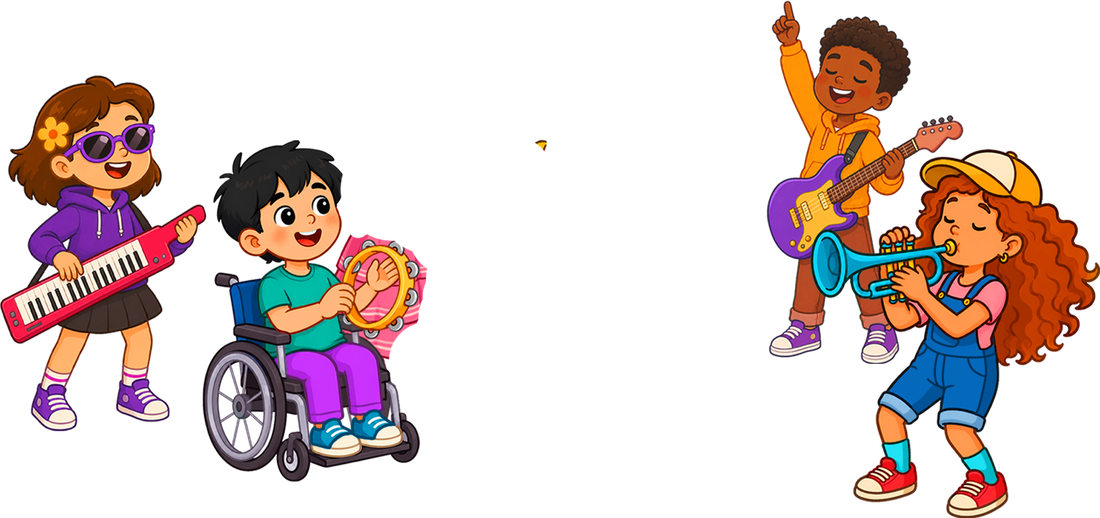
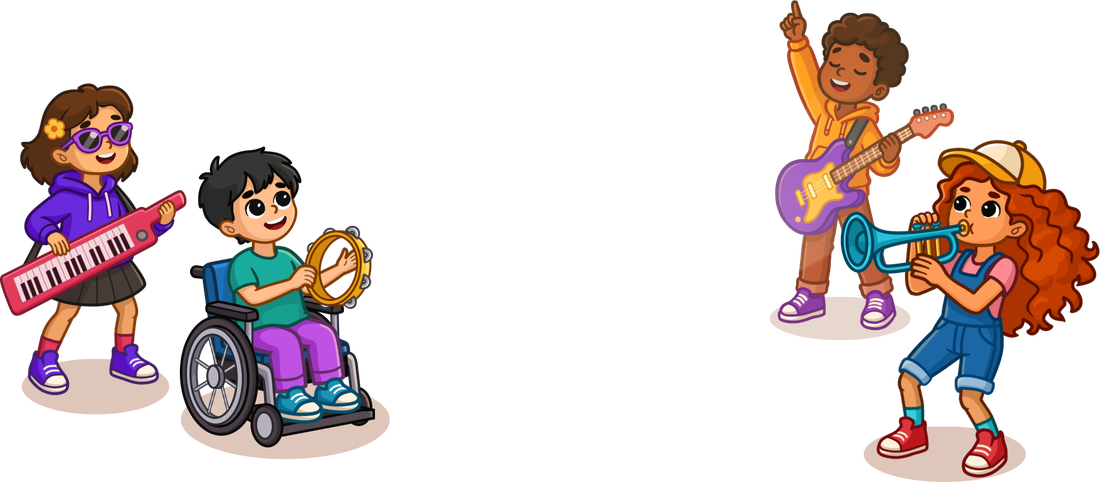
Update stage art and road borders while preserving animated gameplay

diff --git a/src/psd-ui.js b/src/psd-ui.js
@@ -1,4 +1,4 @@
-import {localizedLogo, supportedLanguages} from './logos.js?v=b9b96e2c52c7';
+import {localizedLogo, supportedLanguages} from './logos.js?v=4c0b585e0128';
 // Coordinates refer to the visible PSD artboard, excluding its black export frame.
 // PSD: 2928×4884; visible artwork: x=351..2574, y=42..4842.
 export const art = 'public/assets/psd/';
@@ -6,7 +6,7 @@ export const esc = value => String(value).replace(/[&<>"']/g,c=>({'&':'&amp;','<
 export function box(x,y,w,h) {return `left:${(x-351)/2223*100}%;top:${(y-42)/4800*100}%;width:${w/2223*100}%;height:${h/4800*100}%;`;}
 export function picture(name,x,y,w,h,extra='') {
  if(['menu-star','win-star','game-star'].includes(name))return `<div class="art glow-star" data-art="${name}" style="${box(x,y,w,h)}" aria-hidden="true"><i></i></div>`;
- return `<img class="art ${extra}" data-art="${name}" src="${art}${name}.webp" style="${box(x,y,w,h)}" alt="" draggable="false">`;}
+ return `<img class="art ${extra}" data-art="${name}" src="${art}${name}.webp${['cast','singer','game-dino'].includes(name)?'?v=cast-20261027':''}" style="${box(x,y,w,h)}" alt="" draggable="false">`;}
 export const star = '<span class="score-star" aria-hidden="true"></span>';
 export function days({day,selected,scores,t,final=false}) {
  return `<div class="days ${final?'final-days':''}" style="--unlocked:${Math.max(0,day-1)/6*100}%">${Array.from({length:7},(_,i)=>{
@@ -57,8 +57,8 @@ export function endUI({t,s,scores,diplomaBusy=false,diplomaError=''}){
  </div>`;
 }
 export function gameUI({t,track,score}) {
- return `<div class="screen game-screen"><div class="lanes" aria-label="${t('musicTrack')}">${[0,1].map(l=>`<button class="lane lane-${l}" data-lane="${l}" aria-label="${t(l?'lane2':'lane1')}"><div class="road"><div class="road-shine"></div><div class="road-stream" aria-hidden="true"><i></i><i></i></div></div><div class="notes"></div><span class="target"><span class="target-beam" aria-hidden="true"></span><span class="target-halo" aria-hidden="true"></span></span></button>`).join('')}</div>
- ${picture('sky-stars',356,114,2180,891)}${picture('game-star',1076,662,788,760)}${picture('stage',-265,715,3460,1469,'stage')}${picture('cast',485,740,1953,920)}${picture('singer',1242,711,488,934)}${picture('game-dino',1572,1056,443,582)}
+ return `<div class="screen game-screen"><div class="lanes border-lanes" aria-label="${t('musicTrack')}"><div class="road-border-art" aria-hidden="true"></div>${[0,1].map(l=>`<button class="lane lane-${l}" data-lane="${l}" aria-label="${t(l?'lane2':'lane1')}"><div class="road"><div class="road-shine"></div><div class="road-stream" aria-hidden="true"><i></i><i></i></div></div><div class="notes"></div><span class="target"><span class="target-beam" aria-hidden="true"></span><span class="target-halo" aria-hidden="true"></span></span></button>`).join('')}</div>
+ ${picture('sky-stars',356,114,2180,891)}${picture('game-star',1076,662,788,760)}${picture('stage',-265,715,3460,1469,'stage')}${picture('cast',369,725,2165,948)}${picture('singer',1111,698,487,953)}${picture('game-dino',1468,951,422,677)}
  <div class="track-hud panel" style="${box(472,375,1154,306)}"><span class="note-icon">♫</span><div><small>${t('track')}</small><b>${esc(track.title)}</b><progress id="progress" max="1" value="0"></progress></div></div>
  <div class="total panel" style="${box(1666,376,478,306)}"><small>${t('score')}</small><b>${star}<span id="score">${score}</span></b></div>
  <button class="circle-button pause-button" id="pause" aria-label="${t('paused')}" style="${box(2181,390,276,276)}"><span></span></button>

diff --git a/src/app.js b/src/app.js
@@ -1,18 +1,18 @@
-import {createStoryHistory,storiesKey,storyCalendar} from './stories-state.js?v=b9b96e2c52c7';
-import {mountStories} from './stories-player.js?v=e9652989c591';
-import {storyContent} from './stories-content.js?v=b9b96e2c52c7';
-import {integrationConfig} from './integration-config.js?v=b9b96e2c52c7';
-import {isAppLaunch,loadLaunchContext,launchEvent,progressKey} from './launch-context.js?v=b9b96e2c52c7';
-import {createEventApi,createProgressSync} from './event-api.js?v=5f744c4a6941';
-import {lockedDayMessage} from './locked-day.js?v=b9b96e2c52c7';
-import {loadTrack,unlockAudio,beep,celebrate,stopEffects,prepareApplause} from './game-audio.js?v=b9b96e2c52c7';
-import {runtime} from './runtime-config.js?v=b9b96e2c52c7';
-import {loadEvent} from './event-source.js?v=b9b96e2c52c7';
-import {eventState, award, saveScore, timingPoints} from './event.js?v=b9b96e2c52c7';
-import {I18N} from './reference-i18n.js?v=b9b96e2c52c7';
-import {copy} from './copy.js?v=5f744c4a6941';
-import {decorateScreen,hitMotion,flyHitNote,victoryConfetti} from './motion.js?v=b9b96e2c52c7';
-import {menuUI,resultUI,endUI,gameUI} from './psd-ui.js?v=5f744c4a6941';
+import {createStoryHistory,storiesKey,storyCalendar} from './stories-state.js?v=4c0b585e0128';
+import {mountStories} from './stories-player.js?v=4c0b585e0128';
+import {storyContent} from './stories-content.js?v=4c0b585e0128';
+import {integrationConfig} from './integration-config.js?v=4c0b585e0128';
+import {isAppLaunch,loadLaunchContext,launchEvent,progressKey} from './launch-context.js?v=4c0b585e0128';
+import {createEventApi,createProgressSync} from './event-api.js?v=4c0b585e0128';
+import {lockedDayMessage} from './locked-day.js?v=4c0b585e0128';
+import {loadTrack,unlockAudio,beep,celebrate,stopEffects,prepareApplause} from './game-audio.js?v=4c0b585e0128';
+import {runtime} from './runtime-config.js?v=4c0b585e0128';
+import {loadEvent} from './event-source.js?v=4c0b585e0128';
+import {eventState, award, saveScore, timingPoints} from './event.js?v=4c0b585e0128';
+import {I18N} from './reference-i18n.js?v=4c0b585e0128';
+import {copy} from './copy.js?v=4c0b585e0128';
+import {decorateScreen,hitMotion,flyHitNote,victoryConfetti} from './motion.js?v=4c0b585e0128';
+import {menuUI,resultUI,endUI,gameUI} from './psd-ui.js?v=4c0b585e0128';
 const $ = s=>document.querySelector(s), app=$('#app');
 const params=new URLSearchParams(location.search), assets='public/assets/';
 const startType=['banner','game'].includes(params.get('start_type'))?params.get('start_type'):null;

diff --git a/index.html b/index.html
@@ -1,1 +1,1 @@
-<!doctype html><html lang="ru"><head><meta charset="UTF-8"><meta name="viewport" content="width=device-width,initial-scale=1,viewport-fit=cover,user-scalable=no"><meta name="referrer" content="no-referrer"><meta name="theme-color" content="#6c19d6"><title>321playsy · Ритм с Дино</title><link rel="stylesheet" href="src/style.css?v=5f744c4a6941"><link rel="stylesheet" href="src/motion.css?v=b9b96e2c52c7"><link rel="stylesheet" href="src/stories.css?v=e9652989c591"></head><body><main id="app" aria-live="polite"></main><aside id="rotate">↻<p id="rotateText">Поверните устройство вертикально</p></aside><script type="module" src="src/app.js?v=1b56ab3cfd21-closefix"></script></body></html>
+<!doctype html><html lang="ru"><head><meta charset="UTF-8"><meta name="viewport" content="width=device-width,initial-scale=1,viewport-fit=cover,user-scalable=no"><meta name="referrer" content="no-referrer"><meta name="theme-color" content="#6c19d6"><title>321playsy · Ритм с Дино</title><link rel="stylesheet" href="src/style.css?v=4c0b585e0128"><link rel="stylesheet" href="src/motion.css?v=4c0b585e0128"><link rel="stylesheet" href="src/stories.css?v=4c0b585e0128"></head><body><main id="app" aria-live="polite"></main><aside id="rotate">↻<p id="rotateText">Поверните устройство вертикально</p></aside><script type="module" src="src/app.js?v=4c0b585e0128"></script></body></html>

diff --git a/src/style.css b/src/style.css
@@ -81,3 +81,14 @@ body{padding:0}
 
 .end-screen .diploma-status{position:absolute;top:calc(53.2292% + 57cqw);left:7%;width:86%;margin:0;color:white;text-align:center;font:600 3cqw/1.35 system-ui;overflow-wrap:anywhere}
 .end-screen .diploma-status:not(:empty){padding:1cqw 2cqw;border-radius:2cqw;background:#512879}
+/* Only the authored PSD road perimeters replace the old edges.
+   Keep the original animated road fill, streams, targets and input geometry. */
+.game-screen .border-lanes{isolation:isolate}
+.game-screen .border-lanes::before{display:none}
+.border-lanes>.lane{isolation:auto}
+.border-lanes .road{top:0;bottom:auto;height:107.839894%;width:117.139001%;translate:0 0;z-index:0}
+.border-lanes .lane-0 .road{left:-17.723796%;right:auto;clip-path:polygon(42.8% 0,99% 0,99% 100%,0 100%)}
+.border-lanes .lane-1 .road{left:.764732%;right:auto;clip-path:polygon(1.2% 0,57.2% 0,100% 100%,1.2% 100%)}
+.border-lanes .road::before{display:none}
+.road-border-art{position:absolute;inset:0;z-index:1;pointer-events:none;background:url('../public/assets/psd/road-borders.webp?v=borders-20261027') center/100% 100% no-repeat}
+.teaching .road-border-art{filter:brightness(.3)}

diff --git a/src/event-source.js b/src/event-source.js
@@ -1,4 +1,4 @@
-import {DAY} from './event.js?v=b9b96e2c52c7';
+import {DAY} from './event.js?v=4c0b585e0128';
 export function staticDemoEvent(day, now) {
  const startsAt=now-(day-1)*DAY-(day ? 3600000 : 0);
  return {id:`dino-static-demo-v1-day-${day}`,serverNow:now,startsAt,endsAt:startsAt+7*DAY,prototype:true};

diff --git a/src/integration-config.js b/src/integration-config.js
@@ -1,4 +1,4 @@
-import {decodeLeaderboard} from './event-api.js?v=b9b96e2c52c7';
+import {decodeLeaderboard} from './event-api.js?v=4c0b585e0128';
 // Swagger: https://swagger.dsu-academy.com/gsd.swagger.json
 // Day IDs approved by the app/backend owner on 2026-10-07.
 export const integrationConfig = {
